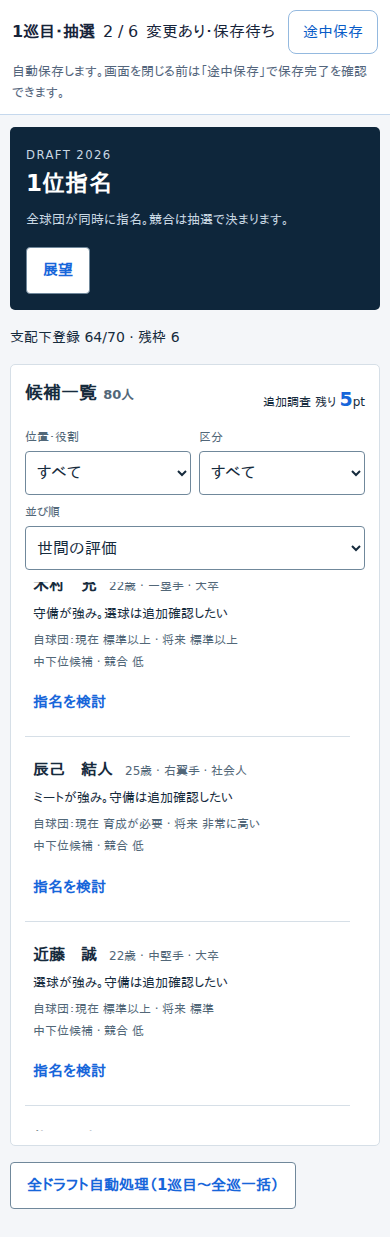
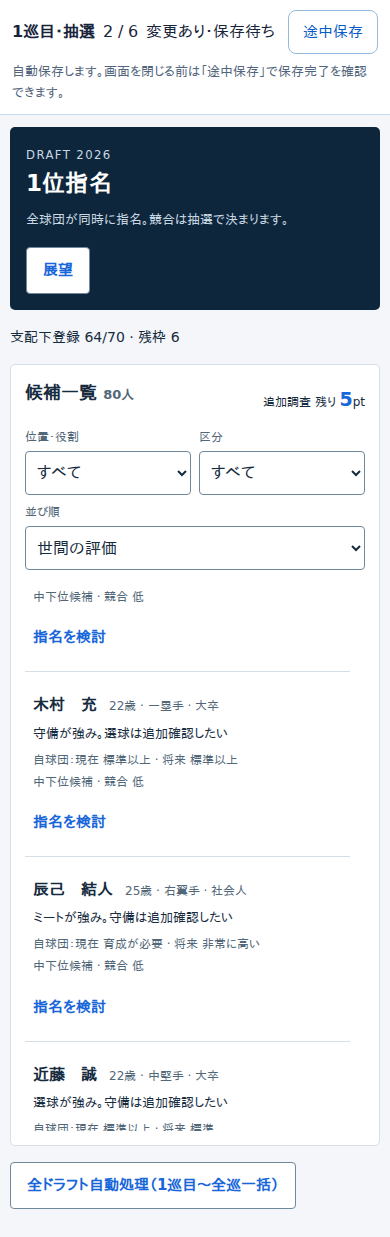
fix: synchronize pending draft position before keyboard save
Commit view-to-save state bridges before Enter's same-task click.
Reproduce stale manual payloads without allowing autosave to mask them.
Retain actual Enter/reload coverage and record final 390px regressions.

Changed region(s): [[0.0615, 0.4608, 0.6462, 0.9216]]

diff --git a/e2e/qa-d1-draft.spec.js b/e2e/qa-d1-draft.spec.js
@@ -8,7 +8,7 @@ import {readSave,reloadAndLoad,waitSaveIdle} from './helpers/progression';
 const EVIDENCE='docs/validation/qa-d1';
 const SOURCE=execFileSync('git',['rev-parse','HEAD'],{encoding:'utf8'}).trim();
 const BASE_SHA='a14a5c888dca3cfe07c7338482e4130290a6257b';
-const SOURCE_FILES=Object.fromEntries(['src/components/DraftCandidates.jsx','src/engine/draftReports.js'].map(path=>[path,execFileSync('git',['hash-object',path],{encoding:'utf8'}).trim()]));
+const SOURCE_FILES=Object.fromEntries(['src/components/DraftCandidates.jsx','src/engine/draftReports.js','src/components/Draft.jsx','src/components/DraftPreview.jsx'].map(path=>[path,execFileSync('git',['hash-object',path],{encoding:'utf8'}).trim()]));
 const SOURCE_SHA256=Object.fromEntries(Object.keys(SOURCE_FILES).map(path=>[path,createHash('sha256').update(readFileSync(path)).digest('hex')]));
 const SEED=20261015;
 function evidence(name,data){if(process.env.QA_D1_CAPTURE){mkdirSync(EVIDENCE,{recursive:true});writeFileSync(`${EVIDENCE}/${name}.json`,JSON.stringify({stage:process.env.QA_D1_STAGE||'after',baseSha:BASE_SHA,sourceSha:SOURCE,sourceFiles:SOURCE_FILES,sourceSha256:SOURCE_SHA256,seed:SEED,timingAttribution:'Reference values only: host CPU load was not isolated from other validation processes.',...data},null,2)+'\n');}}
@@ -36,6 +36,18 @@ async function instrument(page){
     // JSX's transformed formatting differs from the authored source.
     if(!needle.test(body))throw new Error(`instrumentation target missing: ${path}: ${needle}`);
     await route.fulfill({response,body:body.replace(needle,replacement)});
+  });
+}
+
+// Observe the real manual-save callback payload without changing storage or
+// game behavior. This distinguishes a stale request from a later autosave.
+async function observeManualSavePositions(page){
+  await page.addInitScript(()=>{window.__qaManualSavePositions=[];});
+  await page.route('**/src/hooks/useGameState.js*',async route=>{
+    const response=await route.fetch(),body=await response.text();
+    const entry=/const handleSave = useCallback\(async \(options = \{\}\)\s*=>\s*\{/;
+    if(!entry.test(body))throw new Error('manual-save instrumentation target missing');
+    await route.fulfill({response,body:body.replace(entry,'$& if(!options.silent)window.__qaManualSavePositions.push(offseasonPlan?.draftViews?.lottery?.candidateView?.listScroll);')});
   });
 }
 
@@ -85,6 +97,7 @@ async function layout(page){return page.evaluate(()=>({viewport:innerWidth,docum
 test('generated draft browser journey, persistence and candidate return',async({page},testInfo)=>{
   test.setTimeout(180_000); // Real large-state persistence is slower on WebKit.
   const started=Date.now(),errors=[];page.on('pageerror',e=>errors.push(e.message));
+  await observeManualSavePositions(page);
   const info=await seedGenerated(page,'draft_preview',{duel:true});
   await expect(page.getByRole('heading',{name:/ドラフト展望/})).toBeVisible();
   await page.getByRole('button',{name:'各球団',exact:true}).click();
@@ -119,9 +132,28 @@ test('generated draft browser journey, persistence and candidate return',async({
   const pendingScroll=await list.evaluate(el=>{el.scrollTop-=200;el.dispatchEvent(new Event('scroll',{bubbles:true}));return el.scrollTop;});
   const viewSaved=await saveDraft(page);
   expect(viewSaved.offseasonPlan.draftViews.lottery.candidateView.listScroll).toBe(pendingScroll);
-  await page.getByRole('button',{name:'途中保存',exact:true}).focus();
+  const immediateSave=page.getByRole('button',{name:'途中保存',exact:true});
+  await expect(immediateSave).toBeEnabled();await immediateSave.focus();
+  // Enter's default click may run before React's native-listener updates commit.
+  // Keep keydown and click in one task so the CI race has a deterministic RED.
+  const immediate=await list.evaluate(el=>{
+    el.scrollTop-=120;el.dispatchEvent(new Event('scroll',{bubbles:true}));
+    const expected=el.scrollTop,before=window.__qaManualSavePositions.length;
+    const save=[...document.querySelectorAll('button')].find(b=>b.textContent.trim()==='途中保存');
+    save.dispatchEvent(new KeyboardEvent('keydown',{key:'Enter',code:'Enter',bubbles:true}));
+    save.click();
+    return {expected,requested:window.__qaManualSavePositions.slice(before)};
+  });
+  expect(immediate.requested).toEqual([immediate.expected]);
+  await waitSaveIdle(page);
+  // A disabled save button loses focus during the first save. Wait for the
+  // visible control to be usable and focus it again for a real Enter action.
+  const keyboardSave=page.getByRole('button',{name:'途中保存',exact:true});
+  await expect(keyboardSave).toBeEnabled();await keyboardSave.focus();
+  const manualBefore=await page.evaluate(()=>window.__qaManualSavePositions.length);
   const keyboardScroll=await list.evaluate(el=>{el.scrollTop-=120;el.dispatchEvent(new Event('scroll',{bubbles:true}));return el.scrollTop;});
   await page.keyboard.press('Enter');await waitSaveIdle(page);
+  expect(await page.evaluate(before=>window.__qaManualSavePositions.slice(before),manualBefore)).toEqual([keyboardScroll]);
   expect((await readSave(page)).offseasonPlan.draftViews.lottery.candidateView.listScroll).toBe(keyboardScroll);
   await reloadAndLoad(page);await expect(list).toBeVisible();
   expect(Math.abs((await list.evaluate(el=>el.scrollTop))-keyboardScroll)).toBeLessThanOrEqual(2);

diff --git a/src/components/Draft.jsx b/src/components/Draft.jsx
@@ -1,4 +1,4 @@
-import { useState, useEffect, useMemo, useRef } from "react";
+import { useState, useEffect, useLayoutEffect, useMemo, useRef } from "react";
 import React from "react";
 import { POSITIONS, DRAFT_ROUNDS, DRAFT_COMMENTS_MY, DRAFT_COMMENTS_CPU, DRAFT_LOTTERY_MAX_ROUNDS, MAX_SHIHAKA_TOTAL } from '../constants';
 import { rng } from '../utils';
@@ -45,7 +45,8 @@ export function DraftLotteryScreen({teams,myId,year,pool,onDone,savedState,onSta
   const [allLotteryLosers,setAllLotteryLosers]=React.useState(restored.allLotteryLosers ?? []);
   const [round1Result,setRound1Result]=React.useState(restored.round1Result ?? {});
   useEffect(() => { phaseRef.current = phase; }, [phase]);
-  useEffect(() => { onStateChange?.(encodeLottery({ phase, showPreview, hazureRound, activeTeams, confirmedPicks,
+  // Bridge candidate-view commits into the save state before a same-task save.
+  useLayoutEffect(() => { onStateChange?.(encodeLottery({ phase, showPreview, hazureRound, activeTeams, confirmedPicks,
     myPick, cpuPicks, animStep, pendingConflicts, currentConflictIdx, lotteryTarget, lotteryTeams,
     lotteryResult, lotteryRound, resolvedPicks, allLotteryLosers, round1Result,candidateView,...(!onEvaluationChange?{evaluation:session}:{}) })); },
     [phase, showPreview, hazureRound, activeTeams, confirmedPicks, myPick, cpuPicks, animStep, pendingConflicts,
@@ -346,7 +347,7 @@ export function DraftScreen({teams,myId,year,pool,draftAllocation,autoSkip:autoS
   const [localAutoSkip,setLocalAutoSkip]=useState(savedState?.localAutoSkip ?? !!autoSkipProp);
   const effectiveAutoSkip=autoSkipProp||localAutoSkip;
   const [showPreview,setShowPreview]=useState(savedState?.showPreview ?? false);
-  useEffect(() => { onStateChange?.({ pickIdx, drafted, log: log.map(r=>({ ...r, team: r.team.id, player: r.player.id })),
+  useLayoutEffect(() => { onStateChange?.({ pickIdx, drafted, log: log.map(r=>({ ...r, team: r.team.id, player: r.player.id })),
     done, scouted: [...scouted], scoutPt, localAutoSkip, showPreview,candidateView,...(!onEvaluationChange?{evaluation:session}:{}) }); },
     [pickIdx, drafted, log, done, scouted, scoutPt, localAutoSkip, showPreview,candidateView,session,onStateChange]);
   const current=draftOrderFiltered[pickIdx];

diff --git a/src/components/DraftCandidates.jsx b/src/components/DraftCandidates.jsx
@@ -1,4 +1,5 @@
 import React,{useEffect,useMemo,useRef,useState} from 'react';
+import {flushSync} from 'react-dom';
 import {Button,StateLabel} from './design-system/primitives';
 import {DRAFT_SKILLS,draftBand,draftReport,publicDraftTier} from '../engine/draftReports';
 import '../draft-decision.css';
@@ -38,15 +39,18 @@ export default function DraftCandidates({pool,session,onScout,rankings=[],foreca
     // Publish settled scrolling once, and flush before an outside save/navigation
     // click or keyboard action can snapshot the parent state.
     const beforePointer=e=>{if(!rootRef.current?.contains(e.target))flushScroll();};
+    // Enter can trigger the save button's click in the same browser task.
+    // Commit only a pending position before that click reads the parent state.
+    const beforeKeyboard=()=>{if(scrollPending.current)flushSync(flushScroll);};
     if(typeof document!=='undefined'){
       document.addEventListener?.('pointerdown',beforePointer,true);
-      document.addEventListener?.('keydown',flushScroll,true);
+      document.addEventListener?.('keydown',beforeKeyboard,true);
     }
     return ()=>{
       cancelScroll();
       if(typeof document!=='undefined'){
         document.removeEventListener?.('pointerdown',beforePointer,true);
-        document.removeEventListener?.('keydown',flushScroll,true);
+        document.removeEventListener?.('keydown',beforeKeyboard,true);
       }
     };
   },[]);

diff --git a/src/components/DraftPreview.jsx b/src/components/DraftPreview.jsx
@@ -1,4 +1,4 @@
-import React,{useEffect,useState} from 'react';
+import React,{useLayoutEffect,useState} from 'react';
 import {Button,StateLabel} from './design-system/primitives';
 import DraftCandidates from './DraftCandidates';
 import {useDraftEvaluation} from '../hooks/useDraftEvaluation';
@@ -9,7 +9,7 @@ import {analyzeTeamNeeds} from '../engine/trade';
 export default function DraftPreviewScreen({teams,myId,year,pool,draftAllocation,onAllocationChange,onStart,startLabel,savedState,onStateChange,evaluation,onEvaluationChange}) {
   const {session,update}=useDraftEvaluation({teams,myId,year,pool,draftAllocation,savedState,evaluation,onEvaluationChange});
   const [tab,setTab]=useState(savedState?.tab || 'overview'),[candidateView,setCandidateView]=useState(savedState?.candidateView || {});
-  useEffect(()=>{onStateChange?.({tab,candidateView,...(!onEvaluationChange?{evaluation:session}:{})});},[tab,candidateView,session,onStateChange]);
+  useLayoutEffect(()=>{onStateChange?.({tab,candidateView,...(!onEvaluationChange?{evaluation:session}:{})});},[tab,candidateView,session,onStateChange]);
   const myTeam=teams.find(t=>String(t.id)===String(myId));
   const context={teams,evaluation:session};
   const rankings=rankDraftProspects(myTeam,pool,1,[],context),forecast=forecastDraft(teams,pool,myId,context);

diff --git a/docs/implementation/qa-d1.md b/docs/implementation/qa-d1.md
@@ -65,7 +65,7 @@ ChromiumとPlaywright WebKitの360/390/1440pxを対象に、80人の通常生成
 | webkit-360 | 72→8 | 31→1 | 5760→0 | 1→1 |
 | webkit-390 | 82→8 | 36→1 | 6560→0 | 1→1 |
 
-[性能・画面集計](../validation/qa-d1/browser-summary.json)と`browser-performance-{baseline,after}-*.json`・各ブラウザのjourney JSON・`browser-focus-*.json`に計測source hash・条件・結果を保存した。性能比較はスクロール／キャッシュ修正時点、最終フォーカス修正後はPC両エンジンと単体回帰で確認した。保存は元から1回で、実保存の高速化を主張しない。画面は6条件×一覧／詳細／結果の18枚。例：[Chromium390一覧](../validation/qa-d1/browser-chromium-390-list.png)、[WebKit360詳細](../validation/qa-d1/browser-webkit-360-detail.png)、[WebKit1440結果](../validation/qa-d1/browser-webkit-1440-results.png)。
+[性能・画面集計](../validation/qa-d1/browser-summary.json)と`browser-performance-{baseline,after}-*.json`・各ブラウザのjourney JSON・`browser-focus-*.json`に計測source hash・条件・結果を保存した。性能比較6条件はスクロール／キャッシュ修正時点、フォーカス修正後はPC両エンジンと単体回帰で確認した。その後のキーボード保存修正は両エンジン390pxのjourney／性能を再測定し、描画8回・親更新1回・順位ソート0回・保存1回を維持した。保存は元から1回で、実保存の高速化を主張しない。画面は6条件×一覧／詳細／結果の18枚。例：[Chromium390一覧](../validation/qa-d1/browser-chromium-390-list.png)、[WebKit360詳細](../validation/qa-d1/browser-webkit-360-detail.png)、[WebKit1440結果](../validation/qa-d1/browser-webkit-1440-results.png)。
 
 ## 発見事項と修正
 
@@ -74,8 +74,11 @@ ChromiumとPlaywright WebKitの360/390/1440pxを対象に、80人の通常生成
 | P0 | 検証範囲では進行停止・所属破壊を検出せず | ゲームルール・保存形式の修正なし |
 | P1（独立レビューで検出した修正中の回帰） | PCの詳細表示中に並び替えるとDOM位置が戻らず、キーボードフォーカスが詳細見出しへ移る | フィルターの位置リセットと選択時フォーカス処理を分離。失敗テスト追加後に修正、両エンジンで確認 |
 | P2 | 48回のscrollで31〜48回の親更新と5,760〜12,480回の順位ソート | 最新位置をrefに保持し150msで同期、公開mapのidentityで順位キャッシュ |
+| P2（CI追検出） | スクロール直後のEnter保存が前の位置を読む。1段の同期だけでは画面→保存状態のpassive effectによる遅延が残る | 同一taskのkeydown→clickで実handleSave要求を捕捉する失敗回帰を追加。pending位置だけ同期し、プレビュー／1位／後続巡のview橋渡しをlayout effectへ変更。両390pxの実Enter・保存再開も成功 |
 | P2 | PCで一覧へ戻るとfocusが深い位置を約3,000px動かす | preventScroll付きfocus。両エンジンのRED→GREEN |
 | P2／後続バランス | 二軍捕手不足による未実施、3年目の登録枠充足 | 原因・件数を記録。CPU編成全体の変更は分離 |
+
+初回CI（[run399](https://github.com/shotaro-hue/baseball-manager/actions/runs/38737005259)）はブラウザ12/14成功、Chromium390/1440のキーボード保存で失敗した。成功扱いにはしていない。[追検出記録](../validation/qa-d1/keyboard-boundary.json)にRED、同期だけでは不足した原因、最終修正と再確認を記録した。保存用状態への橋渡しは3画面の既存serializationを維持し、実ストレージIOをlayout effectへ移していない。同期はpending位置があるキー操作時に限定する（[React公式flushSync](https://react.dev/reference/react-dom/flushSync)参照）。試験側も、前の保存で無効化されフォーカスを失ったボタンを再び有効・フォーカス済みにし、Enterで実際に手動保存要求が発生したことを検証する。遅れて走る自動保存で誤って合格しないよう、要求時と保存後の両方を確認する。
 
 ## テスト・CI・限界
 
@@ -90,7 +93,7 @@ QA_D1_CAPTURE=1 npx playwright test --config=scripts/qa-d1-browser.config.js --w
 - 関連baseline：draftReports/draftRules/useDraftEvaluation 22件成功。
 - 生成ドラフト：2件成功（最終sourceで再測定）。複数年度：3seed計9年成功、単一ファイル時のworker失敗と隔離後の確認を区別。既存draftStrategy/confirmedPicks/roles/rules/organizationNeeds 54件成功。
 - 実App既存E2：通常最終試合→大会の保存再開→引退→契約編成→ドラフト→キャンプ→翌年開幕がChromiumで成功（41.4秒）。編成不足の案内・UI修復→1試合も成功（15.4秒）。
-- 新規回帰：スクロール・順位再利用・既存の評価／hookを含む27件成功。PCで戻る際の3,000pxジャンプは両エンジンでRED→GREEN。独立レビューで検出した詳細表示中の並び替え時のフォーカス移動・DOM位置不一致もRED→GREENにし、両エンジンのPC回帰を再確認。最終head CIはPR本文に記録。全単体・統合と通常E2Eの正本はPR本文のexact-head Actions結果とする。既存の条件付き経済ベンチマーク2件を新たなskipや成功件数として数えない。
+- 新規回帰：スクロール・順位再利用・既存の評価／hookを含む27件成功。PCで戻る際の3,000pxジャンプは両エンジンでRED→GREEN。独立レビューで検出した詳細表示中の並び替え時のフォーカス移動・DOM位置不一致もRED→GREENにし、両エンジンのPC回帰を再確認。CI追検出のキーボード保存は両390pxのjourney 2件成功（3.5分）、性能2件成功、関連27件とビルド（13.59秒）を再確認。最終head CIはPR本文に記録。全単体・統合と通常E2Eの正本はPR本文のexact-head Actions結果とする。既存の条件付き経済ベンチマーク2件を新たなskipや成功件数として数えない。
 
 iPhone実機、スクリーンリーダー、実端末200%拡大、3年を超える長期バランス、候補生成／成長の校正、CPUのFA・更改・戦力外判断全面改修は対象範囲の完了認定に含めない。
 

diff --git a/ROADMAP.md b/ROADMAP.md
@@ -78,7 +78,7 @@ PR #432は未マージでクローズ。テスト運用の成果は#431として
 | FIX-S | 残課題の再調査待ち | S1/S2/S4は上記範囲で完了。S3の丸め精度・selector間の一致等は未認定。旧監査の疑義を確定バグと扱わず再照合 |
 | FIX-V/Mほか | 残課題の再調査待ち | 保存状態表示、財務・球場投資・収入予測等の疑義を再確認。既対応の契約年俸表示を再実装しない |
 | DES-01 | 正式仕様はマージ済み | #436の確定と、各画面への移行完了を区別する |
-| QA-D1 | 20seed六巡・3seed×3年・42保存再開を検証 | Chromium/WebKit 360/390/1440と性能比較を追加。検証範囲のP0なし、スクロール・順位計算・復帰を修正。二軍捕手不足と登録枠充足、iPhone実機未確認を残す。独立PR・最終head CIは[記録](./docs/implementation/qa-d1.md)を参照 |
+| QA-D1 | 20seed六巡・3seed×3年・42保存再開を検証 | Chromium/WebKit 360/390/1440と性能比較を追加。検証範囲のP0なし、スクロール・順位計算・復帰と直後のキーボード保存の位置同期を修正。二軍捕手不足と登録枠充足、iPhone実機未確認を残す。独立PR・最終head CIは[記録](./docs/implementation/qa-d1.md)を参照 |
 | UI-01〜03／QA-01 | 新方針での移行完了は未確認 | UI-01・UI-02とUI-03A/B/Dは上記範囲でマージ済み。方針一覧との統合は#469でマージ済み。FA市場UI-03Cは#470でマージ済み。ドラフトの初回範囲は#471でマージ済み。経営、UI-03全体、総合QAは未完了 |
 | UI-01E | #465でマージ済み | 日程・結果、球団詳細の日程タブ、保存ボックススコアをDES-01へ移行。年度・日付・視点、未記録・実測0・部分記録と復帰を検証。[記録](./docs/implementation/ui-01e.md) |
 | UI-03A | #466でマージ済み | オフシーズン編成の概要・方針一覧・結果確認・確認ダイアログをDES-01へ移行。保存失敗／再試行、実放出・FA予算・契約下書き保持を検証。[記録](./docs/implementation/ui-03a.md) |
